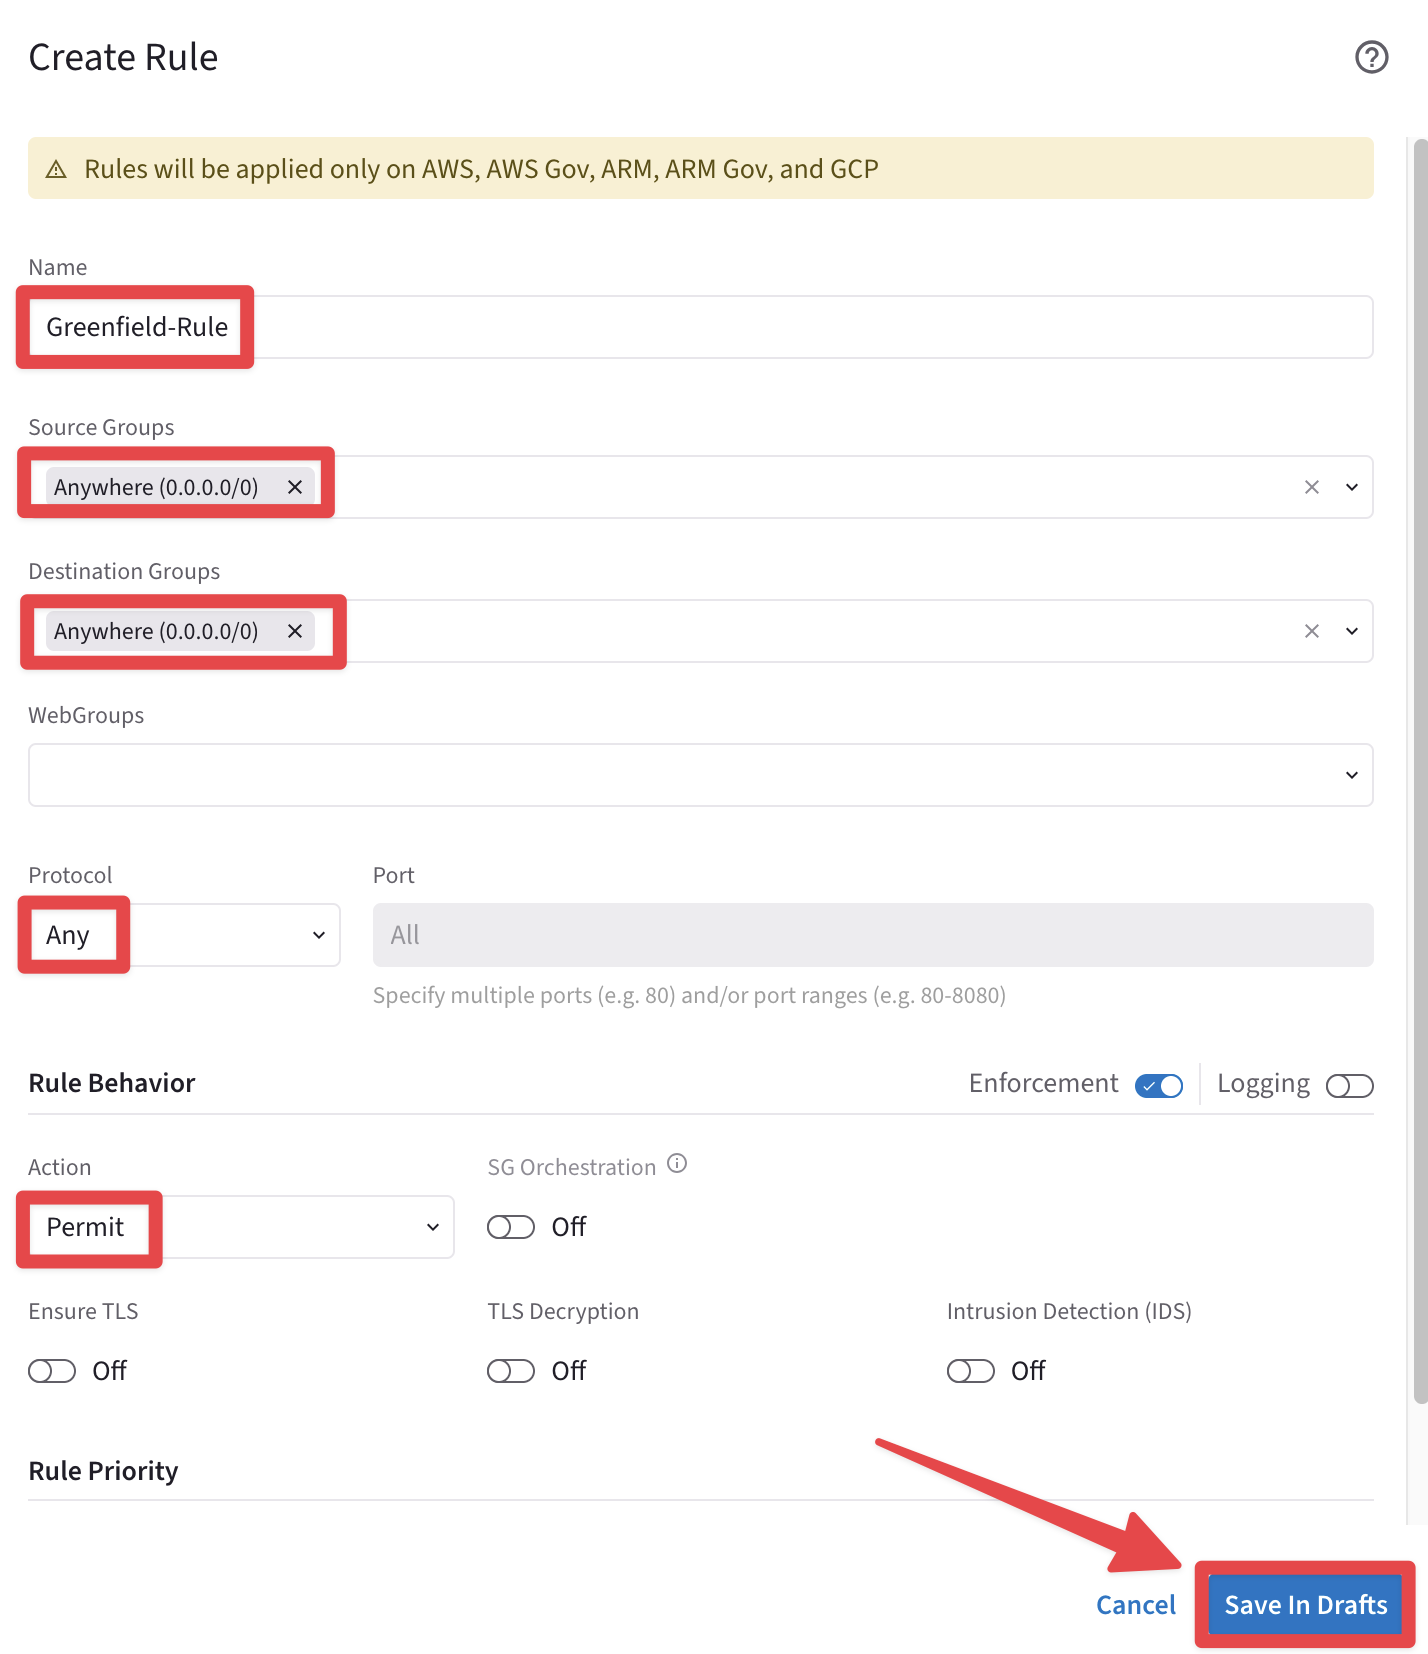
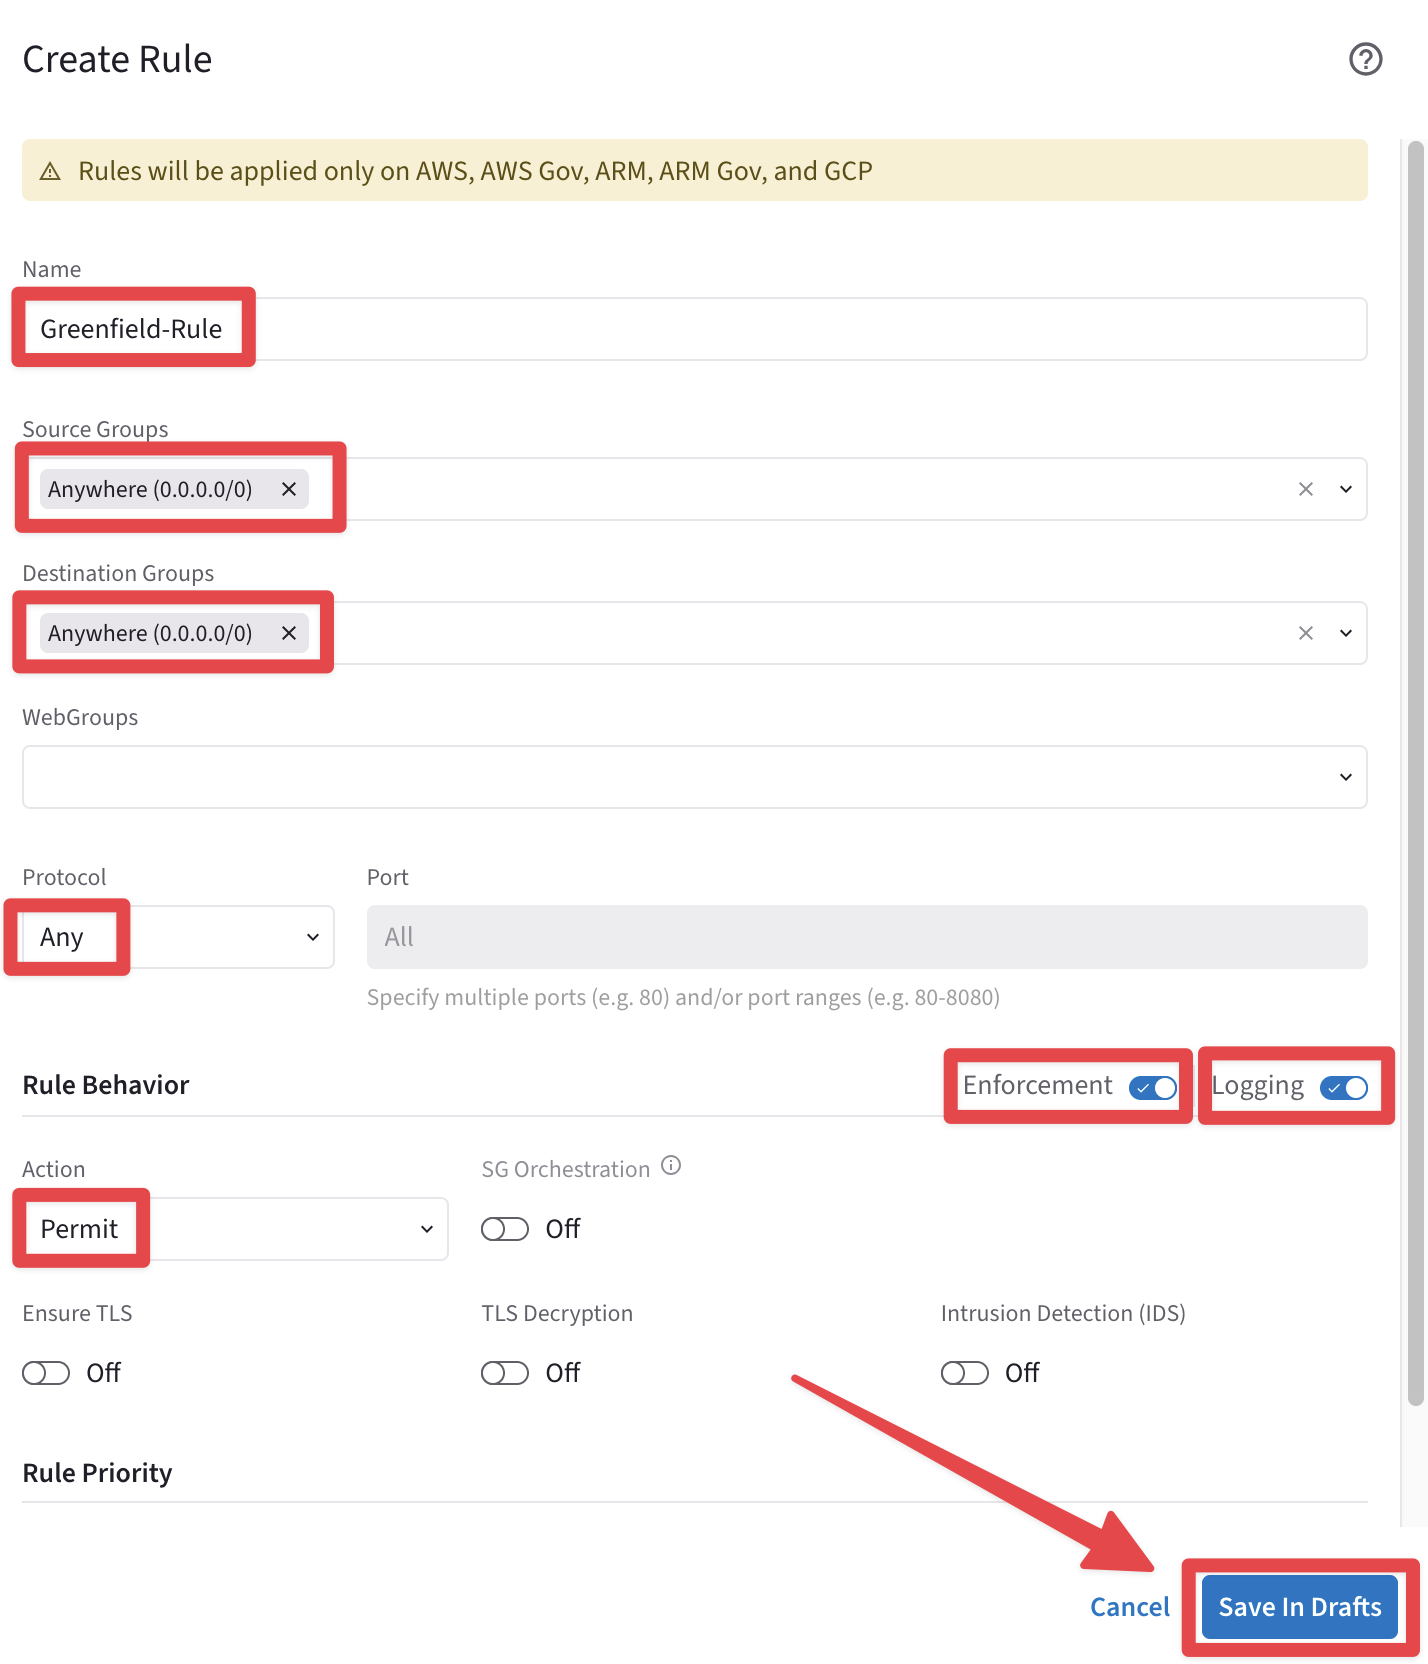
update for pro

diff --git a/ace_pro/docs/lab6.md b/ace_pro/docs/lab6.md
@@ -4,7 +4,7 @@
 
 The objective of this lab is to learn how to deploy **Palo Alto** Networks (aka PAN) VM-series firewalls in the Transit VNet and inspect traffic between the two Spoke VNets using firewall policies.
  
-## 2. FireNet Overview (Firewall Nework)
+## 2. FireNet Overview (Firewall Network)
 
 Aviatrix Firewall Network (aka *`FireNet`*) is a turnkey solution to deploy and manage firewall instances in the cloud, as shown in the topology below. Firewall Network significantly simplifies virtual firewall deployment and allows the firewall to inspect VPC/VNet/VCN to VPC/VNet/VCN (East West) traffic, VPC/VNet/VCN to Internet (Egress) traffic, and VPC/VNet/VCN to on-prem including partners and branches (North South) traffic.
 
@@ -344,7 +344,7 @@ Before launching any connectivity tests, <ins>you need to move the **_Greenfield
 
 ```{figure} images/lab7-dcfrule.png
 ---
-height: 150px
+height: 250px
 align: center
 ---
 DCF rules
@@ -358,7 +358,7 @@ Go to **CoPilot > Security > Distributed Cloud Firewall > Rules (default tab)** 
 
 ```{figure} images/lab7-top.png
 ---
-height: 150px
+height: 250px
 align: center
 ---
 New Rule
@@ -370,6 +370,7 @@ Insert the following parameters
 - **Source Smartgroups**: <span style='color:#479608'>Anywhere (0.0.0.0/0)</span>
 - **Destination Smartgroups**: <span style='color:#479608'>Anywhere (0.0.0.0/0)</span>
 - **Protocol**: <span style='color:#479608'>Any</span>
+- **Enforcement**: <span style='color:#479608'>**On**</span>
 - **Action**: <span style='color:#479608'>**Permit**</span>
 
 Do not forget to click on **Save In Drafts**.
@@ -382,35 +383,14 @@ align: center
 Greenfield-Rule
 ```
 
-- Apply the "Logging" option to the Greenfield-Rule
-
-```{tip}
-Click on the pencil icon beside the Greenfield-Rule row, then turn on the toggle for Logging and click on **Save in Drafts**.
-
-Once again do not forget to click on **Commit**.
-```
+- Once again do not forget to **Commit** your rule.
 
 ```{figure} images/lab7-newone2.png
 ---
 height: 300px
 align: center
 ---
-Edit the Greenfield-Rule
-```
-
-```{figure} images/lab7-newone3.png
----
-align: center
----
-Editing the Greenfield-Rule
-```
-
-```{figure} images/lab7-newone4.png
----
-height: 300px
-align: center
----
-Commit
+Commit the Greenfield-Rule
 ```
 
 ### 5.1.1 Launch connectivity test
@@ -425,7 +405,7 @@ Ping is successful
 ```
 
 ```{note}
-Pings are passing because the **`Allow-all`** rule on the Firewall is permitting traffic from any zone to any zone to pass.
+Pings are passing because the **`Allow-all`** rule on the **PAN Firewall** is permitting traffic from any zone to any zone to pass.
 ```
 
 Back on the PAN firewall, click on the `Monitor` tab. Then paste this string in the filter bar and hit **Enter**, which will apply the filter:
@@ -486,27 +466,6 @@ height: 400px
 align: center
 ---
 Final Topology for Lab 6
-```
-
-- Explore the logs on the Monitor section of the Distributed Cloud Firewall. Filter out based on protocol **ICMP**.
-
-```{tip}
-Go to **CoPilot > Security > Distributed Cloud Firewall > Monitor**
-```
-
-```{figure} images/lab7-newlog.png
----
-align: center
----
-Filter based on ICMP
-```
-
-```{figure} images/lab7-last.png
----
-height: 150px
-align: center
----
-Logs on DCF Monitor section
 ```
 
 ```{important}
